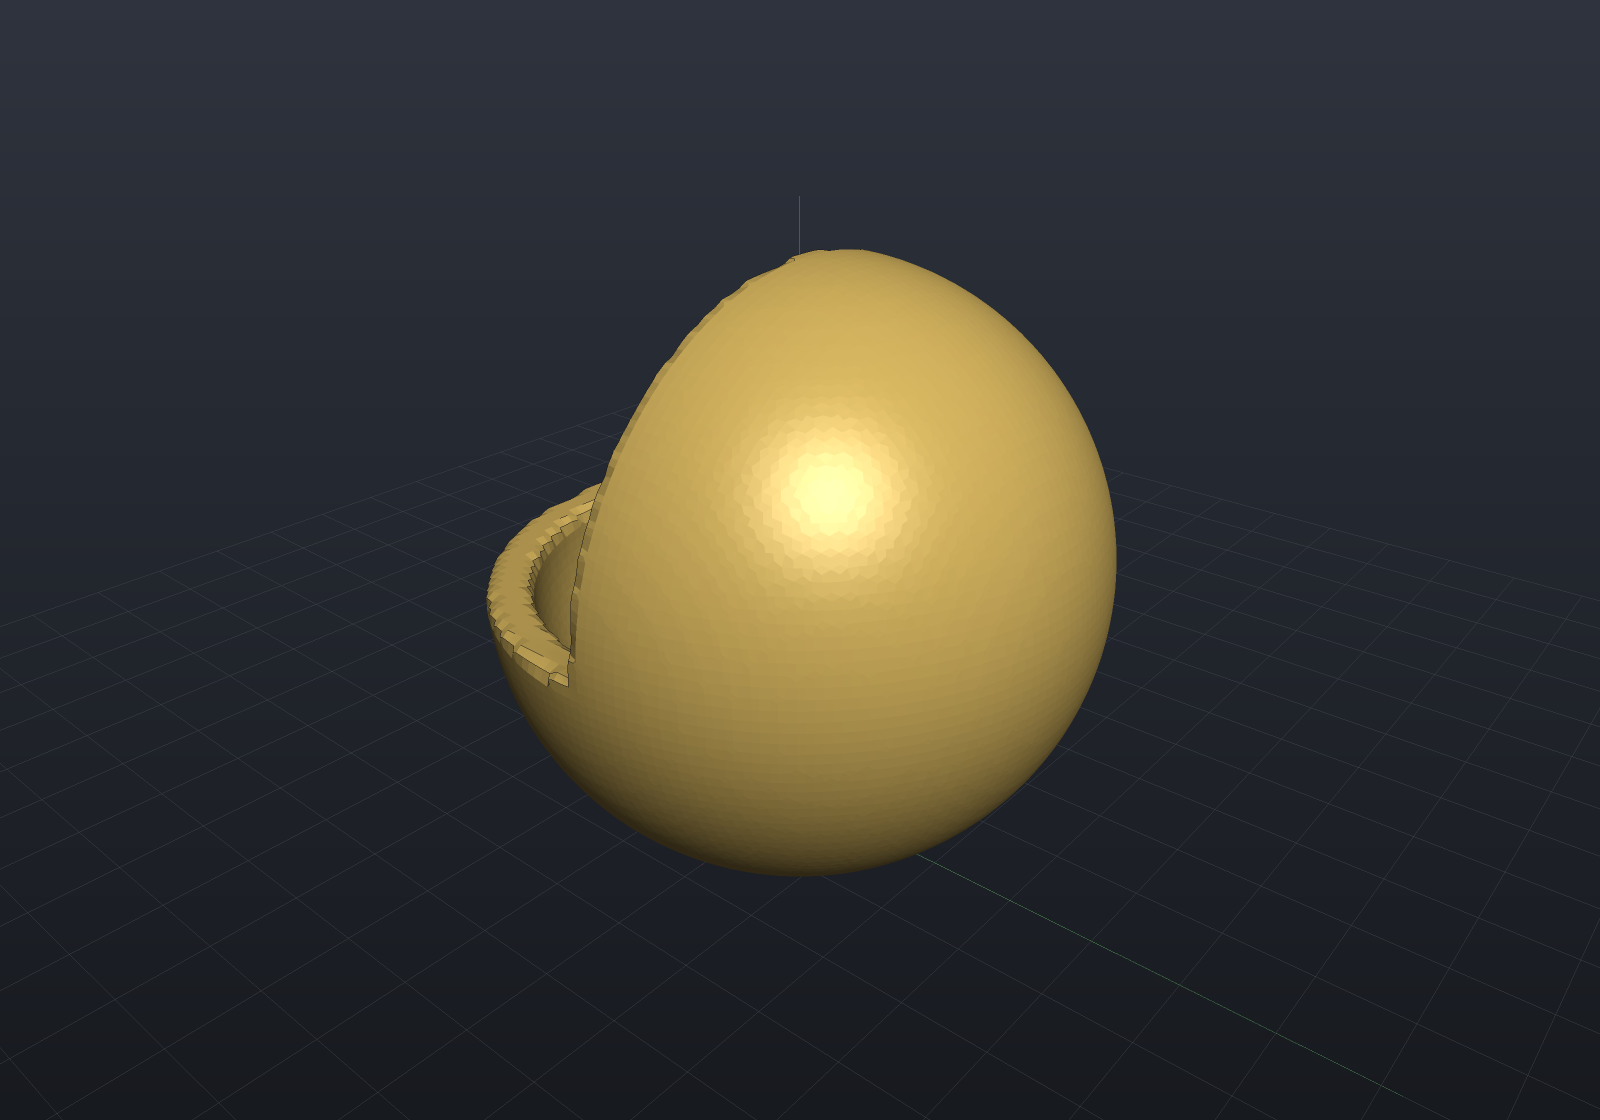
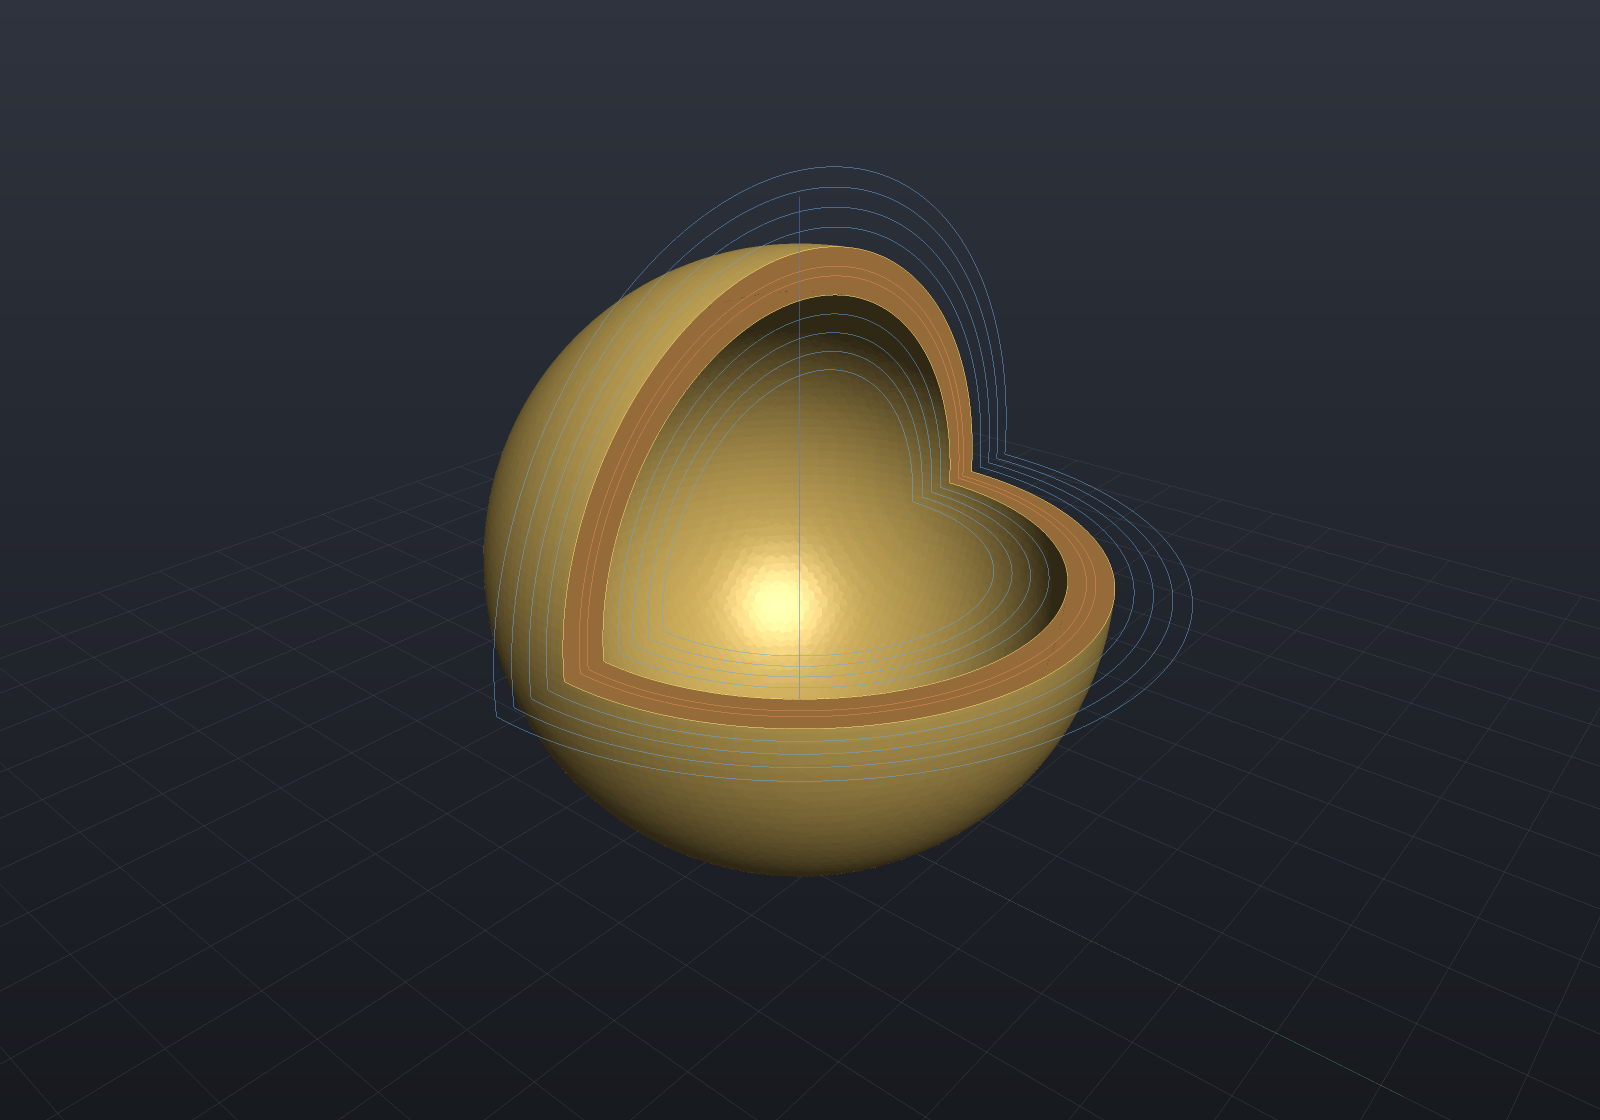
Docs cutaway sweep: real section planes replace boolean fakes
Three example pages faked cutaways with box subtractions; all three now
render with real section planes (the fence section: option), which is
what the option exists for. holes.md: the drilled plate keeps its exact
B-Rep (no more SdfResolution mesh of a half-cut field) and the y=0 cut
shows the counterbore step and countersink cone as flat cut material
with isolines. threads.md: the tapped block is sectioned ALONG the
thread axis - the page now teaches that the shader clip is not a
boolean, which is why it can slice where the B-Rep boolean refuses.
implicit.md: the shelled sphere gets a real quarter cut (two planes),
and the isolines two gold contours make the constant wall thickness
literally readable. Per-render accounting: exactly the three converted
images changed (holes-section.png, thread-hole.png, shell.png); the
other 74 rendered PNGs are byte-identical, 107/107 snippets execute.

Changed region(s): [[0.2812, 0.2188, 0.7188, 0.6562]]

diff --git a/docs/examples/threads.md b/docs/examples/threads.md
@@ -52,26 +52,25 @@ scene.Add(new Part("M8 stud", boss | stud, Palette.Steel,
 does: at each 2D point it drills the tap pilot (`ThreadSpec.TapDrillDiameter`, via
 [`Drill`](holes.md)) and then subtracts a modeled thread void, both along −normal to
 `depth` below the plane. The pilot truncates the internal crests to the tap-drill
-diameter — exactly what tapping a drilled hole does. Cutting the block in half shows
-the internal thread profile (the viewer's [section mode](viewer.md) does this
-interactively):
+diameter — exactly what tapping a drilled hole does. A real **section plane** through
+the hole axis shows the internal thread profile (the viewer's
+[section mode](viewer.md) interactively; here the fence's `section:y,0` option). Note
+what makes this cut possible: a downstream *boolean* may slice a modeled thread only
+with axis-perpendicular planes (helical∩tilted-plane falls to the tracer and fails
+loudly), but the viewer's section is a fragment-shader clip, not a boolean — so it
+slices ALONG the thread axis effortlessly, on the same whole geometry:
 
-```csharp render:thread-hole
+```csharp render:thread-hole section:y,0
 var top = SketchPlane.At((0, 0, 5), Vector3d.UnitX, Vector3d.UnitY);
 var block = Shape.Box(16, 12, 10)   // printable: clearance keeps this on the SDF route
     .ThreadedHole(StandardThreads.Metric(6), [new(0, 0)], depth: 12, top, clearance: 0.15);
 
-// Expose the internal thread by cutting away the front half through the hole axis.
-// (A section cut slicing ALONG the thread axis is beyond the B-Rep boolean's
-// perpendicular-plane support — the SDF route handles it exactly.)
-var sectioned = block - Shape.Box(20, 14, 14).Translate(0, 7, 0);
-
 var scene = new Scene(new MeshQuality { SdfResolution = 220 });
-scene.Add(new Part("tapped block", sectioned, Palette.Brass,
+scene.Add(new Part("tapped block", block, Palette.Brass,
     Matrix4d.CreateTranslation((0, 0, 5))));
 ```
 
-![A half-sectioned block showing the internal thread profile of an M6 tapped hole](images/thread-hole.png)
+![A section plane through the hole axis showing the internal thread profile of an M6 tapped hole](images/thread-hole.png)
 
 ## Printing clearance
 

diff --git a/docs/examples/holes.md b/docs/examples/holes.md
@@ -94,24 +94,24 @@ production use.
 
 ## Seeing inside
 
-Cutting the drilled plate in half shows the counterbore step and countersink cone the
-recipes produce (the viewer's [section mode](viewer.md) does this interactively):
+A real **section plane** through the hole axes shows the counterbore step and
+countersink cone the recipes produce — the same cut the viewer's
+[section mode](viewer.md) makes interactively, here as a render option (`section:y,0`
+on the fence), so the geometry stays the exact B-Rep and the cut faces shade as flat
+cut material. The contour rings on the cut are the automatic
+[SDF isolines](viewer.md#sdf-isolines-on-the-cut) — drilling is exact in the
+implicit engine too, and the gold ring is the exact surface cross-section:
 
-```csharp render:holes-section
+```csharp render:holes-section section:y,0
 var top = SketchPlane.At((0, 0, 6), Vector3d.UnitX, Vector3d.UnitY);
 
 var plate = Shape.Box(60, 30, 12)
     .Drill(HoleSpec.Counterbore(5, 10, 4), [new(-15, 0)], depth: 14, top)
     .Drill(HoleSpec.Countersink(5, 11), [new(15, 0)], depth: 14, top);
 
-// Drilling is exact in the implicit engine too: lower to the signed distance
-// field and cut the near half away to expose the hole profiles.
-var sectioned = Shape.From(plate.ToImplicit())
-    - Shape.Box(62, 32, 16).Translate(0, 16, 0);
-
-var scene = new Scene(new MeshQuality { SdfResolution = 160 });
-scene.Add(new Part("cross-section", sectioned, Palette.Sky,
+var scene = new Scene();
+scene.Add(new Part("plate", plate, Palette.Sky,
     Matrix4d.CreateTranslation((0, 0, 6))));
 ```
 
-![A half-sectioned plate exposing counterbore and countersink profiles](images/holes-section.png)
+![A plate cut by a real section plane, exposing counterbore and countersink profiles with isolines on the cut](images/holes-section.png)

diff --git a/docs/examples/implicit.md b/docs/examples/implicit.md
@@ -74,19 +74,22 @@ convex polyhedral `a` and `b`.
 
 ## Shell
 
-`Shell(thickness)` hollows a solid into a constant-thickness skin. Subtracting a box
-here exposes the interior wall:
+`Shell(thickness)` hollows a solid into a constant-thickness skin. A real **quarter
+cut** (two section planes on the render, the viewer's
+[section mode](viewer.md)) exposes the interior wall — and because a shelled shape is
+SDF-native, the cut carries its [isolines](viewer.md#sdf-isolines-on-the-cut): the
+two gold contours are the exact inner and outer surfaces, and the constant gap
+between them IS the wall thickness, readable at a glance:
 
-```csharp render:shell
-var hollow = Shape.Sphere(16).Shell(2.5)
-    - Shape.Box(40, 40, 40).Translate(0, -20, 20);   // cut a quarter away to look inside
+```csharp render:shell section:y,0;z,16
+var hollow = Shape.Sphere(16).Shell(2.5);
 
 var scene = new Scene();
 scene.Add(new Part("shelled sphere", hollow, Palette.Brass,
     Matrix4d.CreateTranslation((0, 0, 16))));
 ```
 
-![A shelled sphere cut open to show the constant wall thickness](images/shell.png)
+![A shelled sphere quarter-cut by two section planes, isolines showing the constant wall thickness](images/shell.png)
 
 ## Lattice
 

diff --git a/todo.md b/todo.md
@@ -740,9 +740,6 @@ where this project already points.
 
 ## Viewer
 
-- [ ] Remaining docs-cutaway sweep: other example pages that fake cutaways with
-  boolean subtractions (DocsGen `render:` fences now take `section:`/`style:`
-  options — convert where the page reads better with a real section).
 - [ ] **3D-annotation (PMI) residuals** (angular dimensions incl. `BetweenFaces`
   included-angle measurement, chain/ordinate styles, multi-line stroke-font layout
   with callout continuation lines, `ToleranceSpec` text sugar, `HoleTable` +
